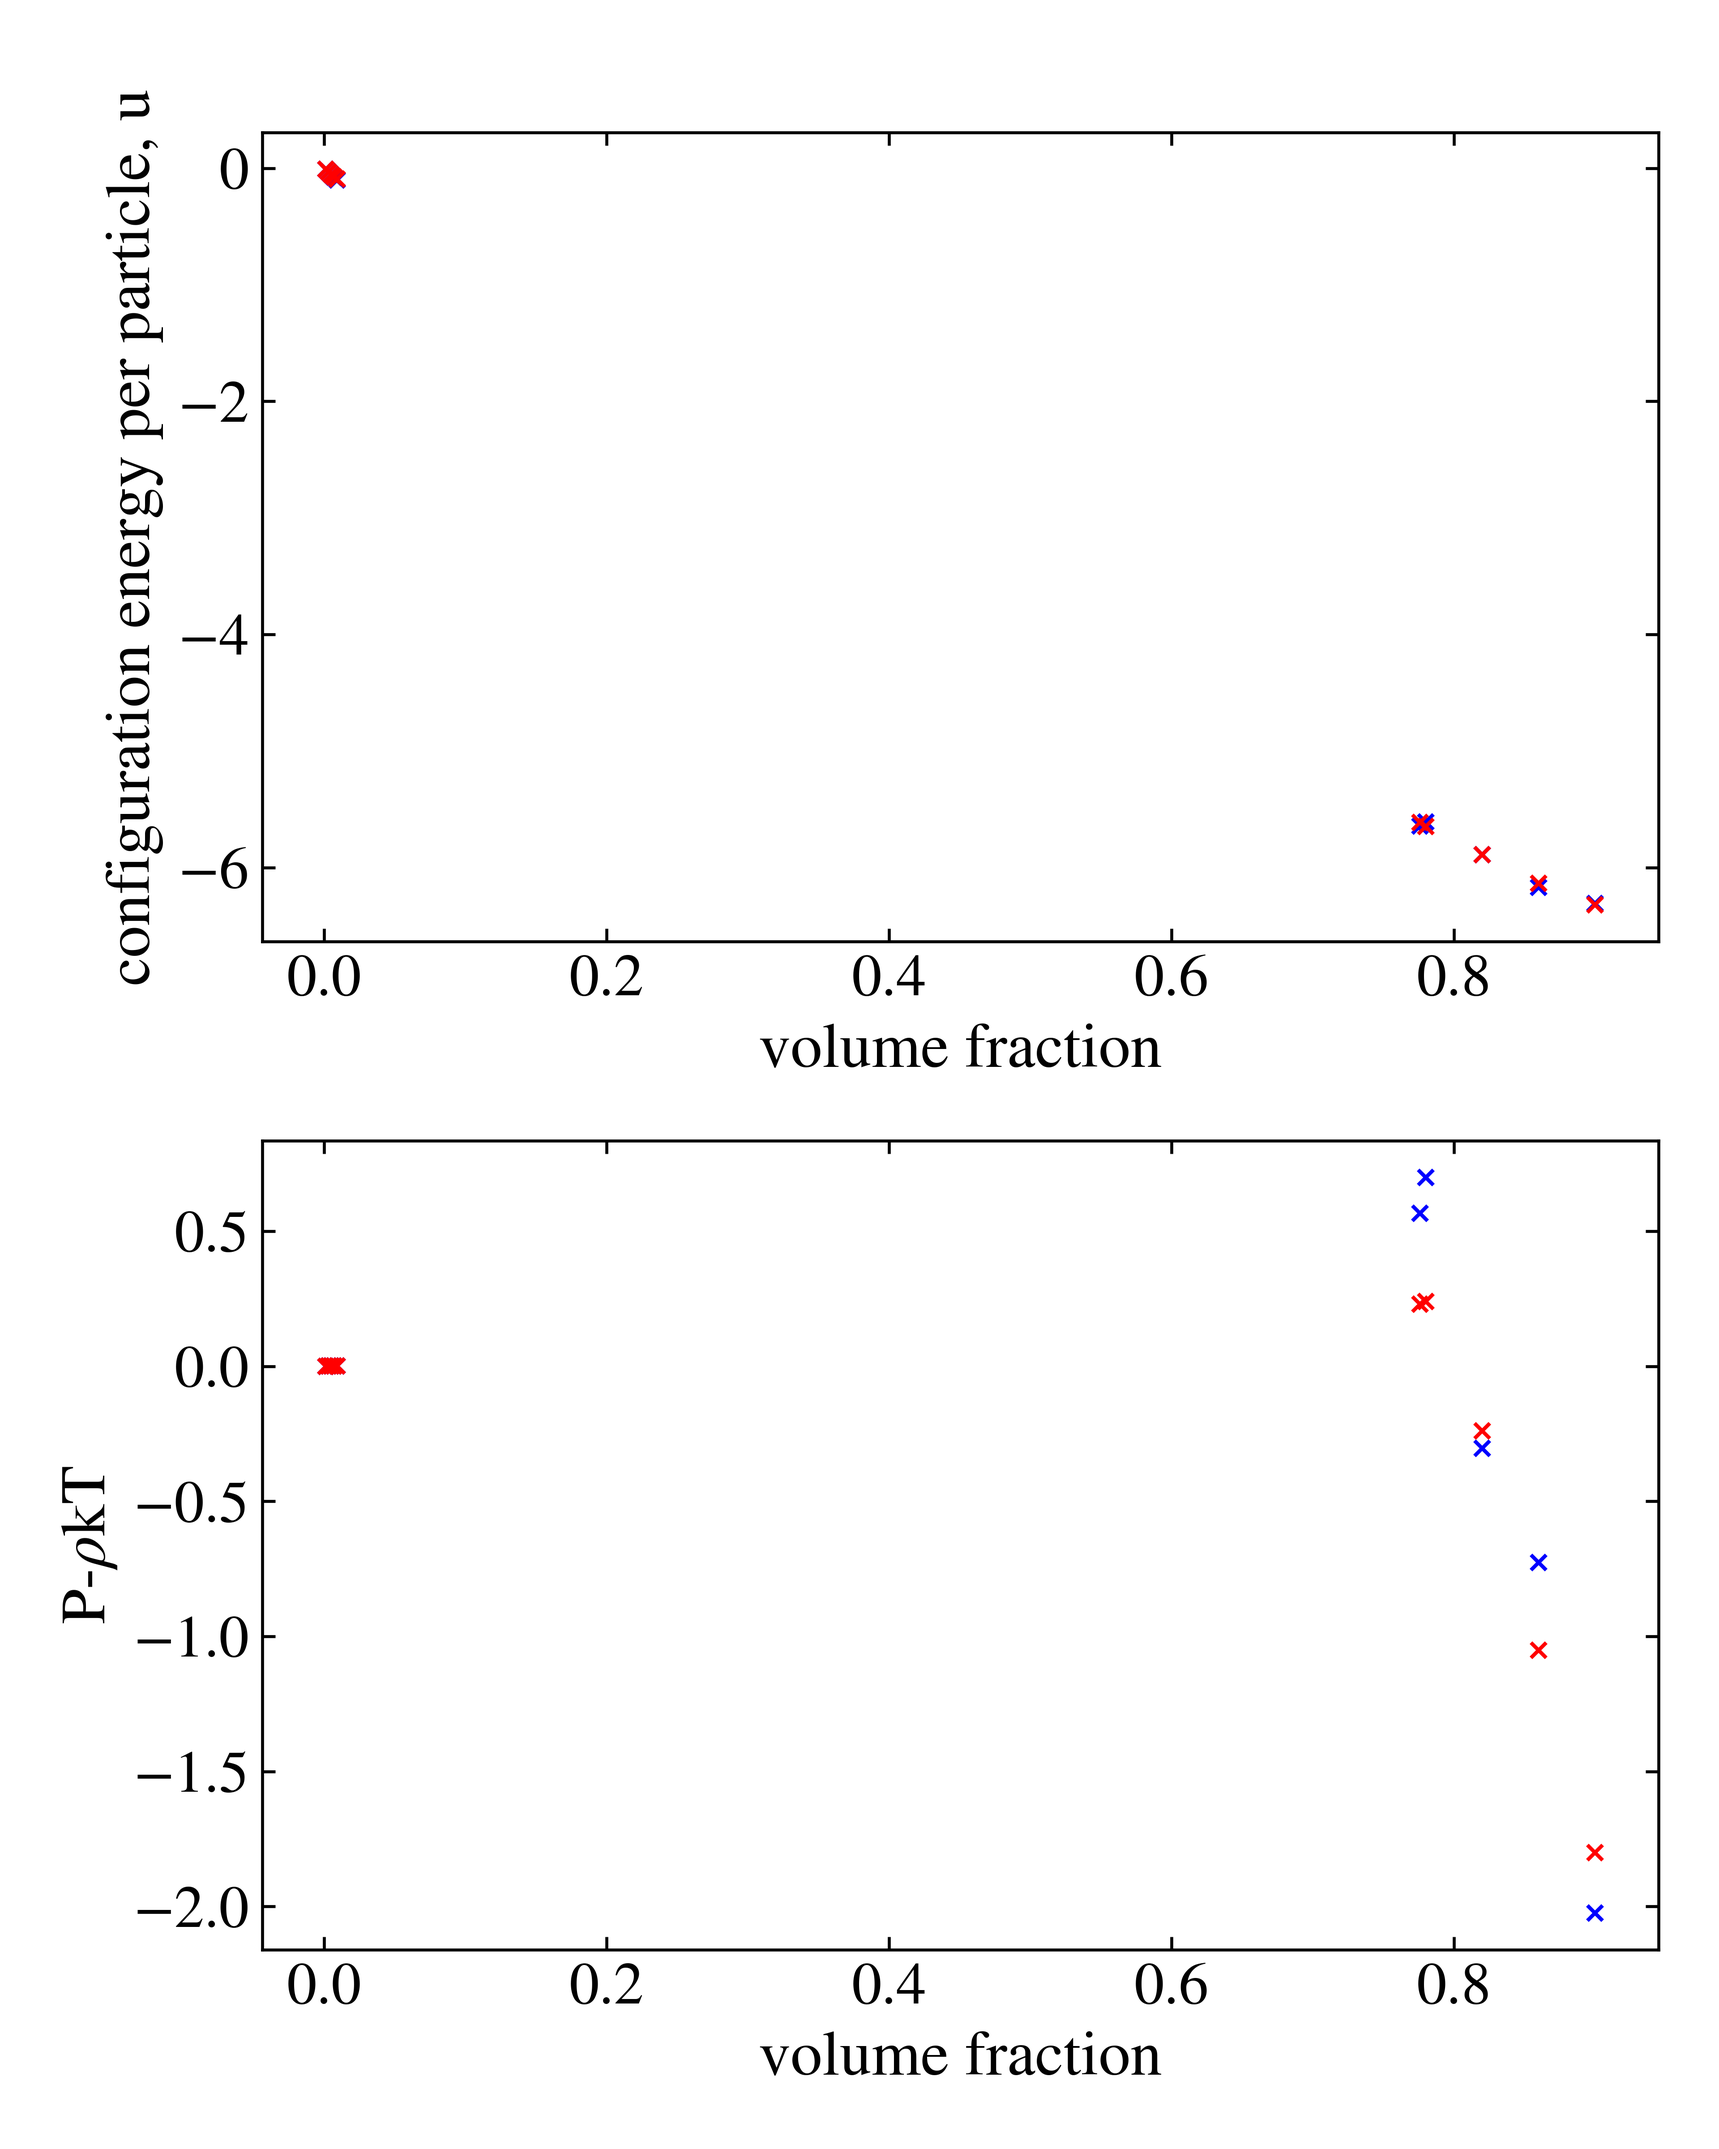
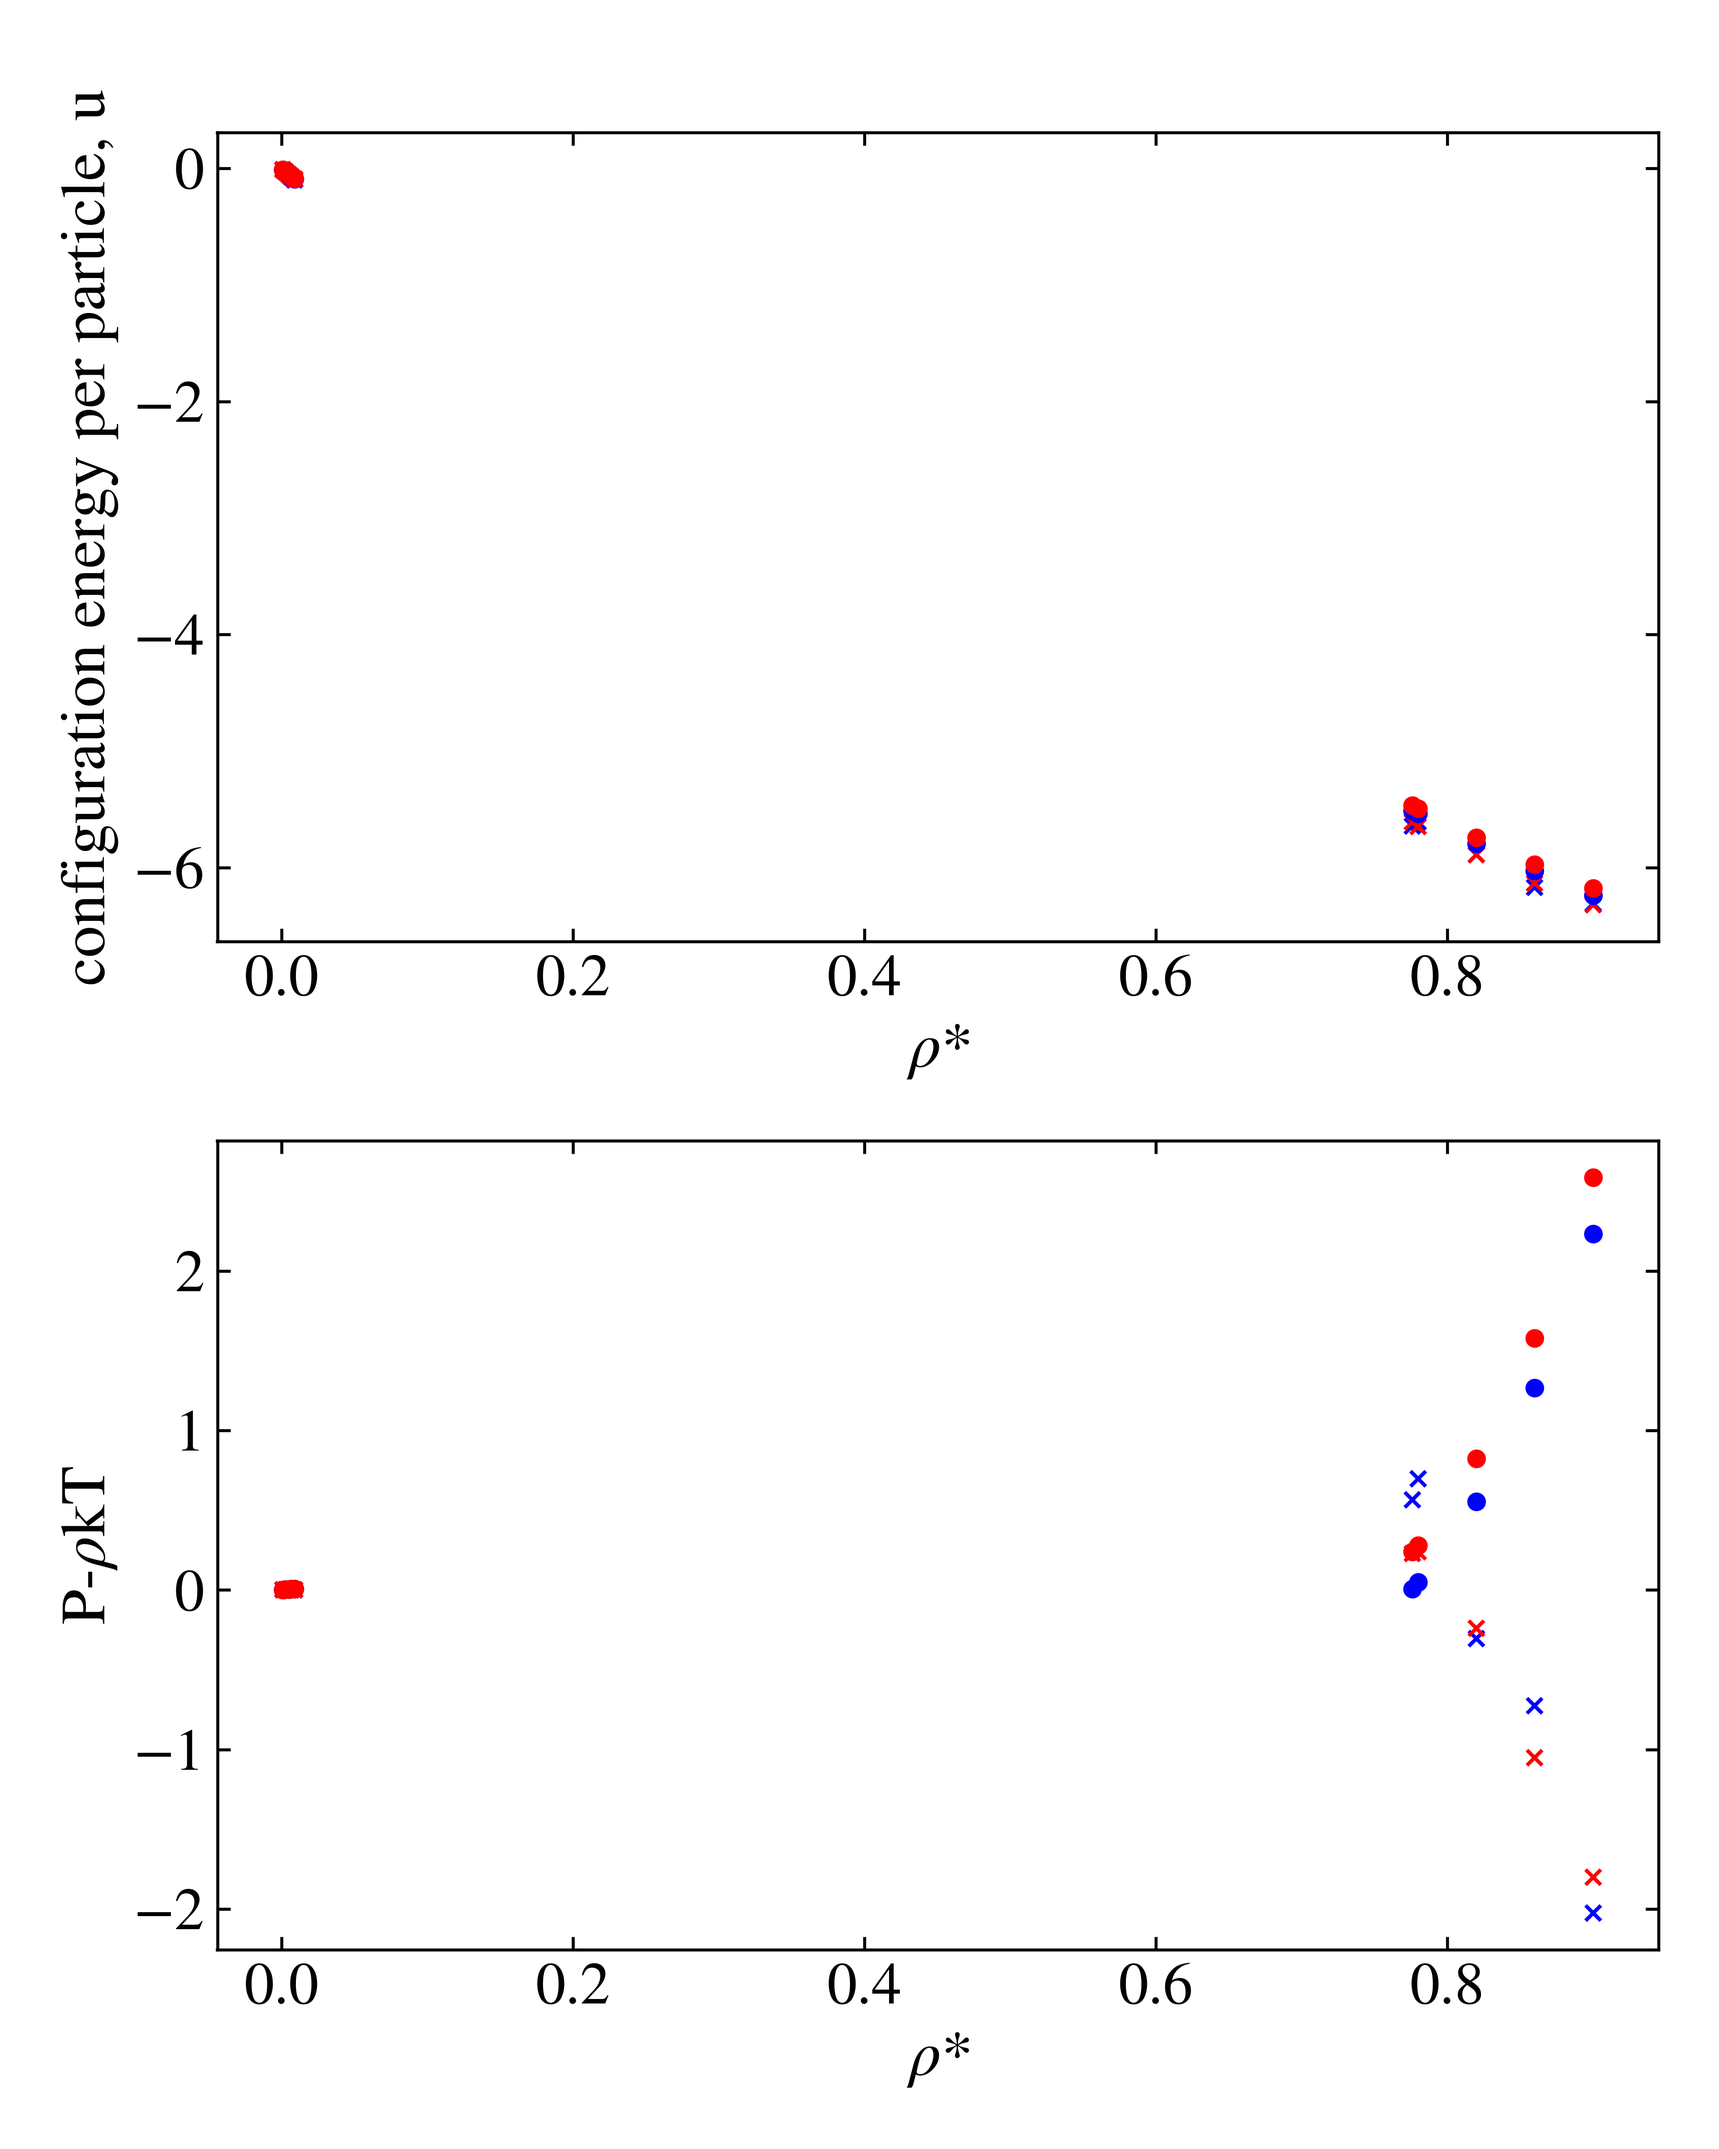
prepared for final run

diff --git a/plotCompResults.py b/plotCompResults.py
@@ -32,12 +32,12 @@ def plotCompResults(compResults, cR_parent_dir):
 
     fig, (axU, axP) = plt.subplots(nrows=2, ncols=1, figsize=[6.4, 8])
     axU.set(
-        xlabel=r'volume fraction',
+        xlabel=r'$\rho$*',
         ylabel=r'configuration energy per particle, u',
         # yscale='log'
     )
     axP.set(
-        xlabel=r'volume fraction',
+        xlabel=r'$\rho$*',
         ylabel=r'P-$\rho$kT',
         # yscale='log'
     )
@@ -80,7 +80,27 @@ def plotCompResults(compResults, cR_parent_dir):
         # axP.errorbar(densities, pressures_minRhokT, yerr=errorsIn_pressure,
         #              marker='', ls='', ecolor=cpick.to_rgba(rT))
 
-    # fig.show()
+
+    # ###NIST RESULTS###
+    NIST_rho = [1e-3, 3e-3, 5e-3, 7e-3, 9e-3, 7.76e-1, 7.80e-1, 8.2e-1, 8.60e-1, 9e-1]
+    NIST_T085_u = [-1.0317E-2, -3.1019E-2, -5.1901E-2, -7.2834E-2, -9.3973E-02, -5.5121E+00, -5.5386E+00, -5.7947E+00, -6.0305E+00, -6.2391E+00]
+    NIST_T085_p = [8.4402E-04, 2.4965E-03, 4.1003E-03, 5.6565E-03, 7.1641E-03, 6.7714E-03, 4.7924E-02, 5.5355E-01, 1.2660E+00, 2.2314E+00]
+    NIST_T09_u = [-9.9165E-03, -2.9787E-02, -4.9771E-02, -6.9805E-02, -8.9936E-02, -5.4689E+00, -5.4956E+00, -5.7456E+00, -5.9753E+00, -6.1773E+00]
+    NIST_T09_p = [8.9429E-04, 2.6485E-03, 4.3569E-03, 6.0193E-03, 7.6363E-03, 2.4056E-01, 2.7851E-01, 8.2386E-01, 1.5781E+00, 2.5848E+00]
+
+    axU.plot(NIST_rho, NIST_T085_u,
+             ls='', marker='o', ms=4, lw=1, color=cpick.to_rgba(0.85))
+    axU.plot(NIST_rho, NIST_T09_u,
+             ls='', marker='o', ms=4, lw=1, color=cpick.to_rgba(0.90))
+    axP.plot(NIST_rho, NIST_T085_p,
+             ls='', marker='o', ms=4, lw=1, color=cpick.to_rgba(0.85))
+    axP.plot(NIST_rho, NIST_T09_p,
+             ls='', marker='o', ms=4, lw=1, color=cpick.to_rgba(0.90))
+
+
+
+
+
     fig.savefig(join(cR_parent_dir, r'result.png'), format='png', dpi=600)
     # fig.show()
 
@@ -106,7 +126,7 @@ def importCompResults(cR_parent_dir):
 if __name__ == '__main__':
     startTime = time()
 
-    cR_parent_dir = r'resultsNCC/shortRun_badConvergence_redDens/compResult'
+    cR_parent_dir = r'resultsNCC/NIST_params_2/compResult'
     compResults = importCompResults(cR_parent_dir)
     plotCompResults(compResults, cR_parent_dir)
 

diff --git a/LJ3Danalysis_parallel.py b/LJ3Danalysis_parallel.py
@@ -89,7 +89,7 @@ def computeQuantities(sR):
 
     pi = np.pi
     intEn_perPart = ne.evaluate("2 * pi * numberDensity * intEn_sum")
-    pressure_minRhokT = ne.evaluate("(2/3) * pi * (numberDensity**2) * pressure_sum")
+    pressure_minRhokT = ne.evaluate("-(2/3) * pi * (numberDensity**2) * pressure_sum")
 
     cR.intEn_perPart = intEn_perPart
     cR.pressure_minRhokT = pressure_minRhokT
